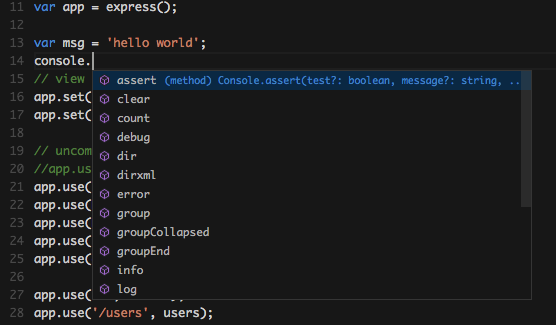
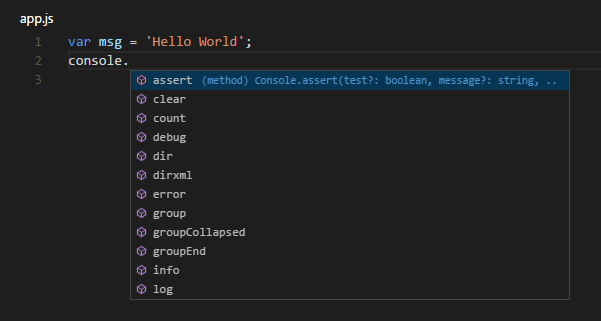
Update Node.js walkthrough

Changed region(s): [[0.0, 0.0, 0.9784, 0.9969], [0.9173, 0.9034, 0.9478, 0.9346], [0.0, 0.5607, 0.0306, 0.5919]]

diff --git a/docs/runtimes/nodejs.md b/docs/runtimes/nodejs.md
@@ -12,25 +12,106 @@ MetaDescription: Visual Studio Code has great support for writing and debugging 
 
 [Node.js](https://nodejs.org/) is a platform for building fast and scalable server applications using JavaScript. Node.js is the runtime and [NPM](https://www.npmjs.com/) is the Package Manager for Node.js modules.
 
-To get started, [install Node.js for your platform](https://nodejs.org/en/download/). The Node Package Manager is included in the Node.js distribution. You'll need to open a new terminal (command prompt) for `npm` to be on your PATH.
+VS Code has support for the JavaScript and TypeScript languages out-of-the-box as well as Node.js debugging. However, to run a Node.js application, you will need to install the Node.js runtime on your machine.
 
-> **Tip!** You can download both the TypeScript and JavaScript versions of the sample application created in this walkthrough from the [vscode-samples](https://github.com/Microsoft/vscode-samples/archive/master.zip) repository.
+To get started in this walkthrough, [install Node.js for your platform](https://nodejs.org/en/download/). The Node Package Manager is included in the Node.js distribution. You'll need to open a new terminal (command prompt) for `npm` to be on your PATH.
+
+>**Tip!** To test that you've got Node.js correctly installed on your computer, type `node --version` from a terminal and you should see the installed version.
+
+## Hello World
+
+Let's get started by creating the simplest Node.js application, "Hello World".
+
+Create an empty folder called "Hello", navigate into and open VS Code:
+
+```bash
+mkdir Hello
+cd Hello
+code .
+```
+
+>**Tip:** You can open files or folders directly from the command line.  The period '.' refers to the current folder, therefore VS Code will start and open the `Hello` folder.
+
+From the File Explorer tool bar, press the New File button:
+
+![File Explorer New File](images/nodejs/toolbar-new-file.png)
+
+and name the file `app.js`:
+
+![File Explorer app.js](images/nodejs/app-js-file-created.png)
+
+By using the `.js` file extension, VS Code interprets this file as JavaScript and will evaluate the contents with the JavaScript language service.
+
+Create a simple string variable in `app.js` and send the contents of the string to the console:
+
+```javascript
+var msg = 'hello world';
+console.log(msg);
+```
+
+Note that when you typed `console.` IntelliSense on the `console` object was automatically presented to you. When editing JavaScript files, VS Code will automatically provide you with IntelliSense for the DOM.
+
+![console IntelliSense](images/nodejs/consoleintellisense.png)
+
+Also notice that VS Code knows that `msg` is a string based on the initialization to `'hello world'`.  If you type `msg.` you'll see IntelliSense showing all of the string functions available on `msg`.
+
+![string IntelliSense](images/nodejs/stringintellisense.png)
+
+After experimenting with IntelliSense, revert any extra changes from the source code example above and save the file.
+
+### Running Hello World
+
+To run `app.js` with Node.js, from a terminal type:
+
+```bash
+node app.js
+```
+
+You should see "Hello World" output to the terminal and then Node.js returns.
+
+### Debugging Hello World
+
+As mentioned in the introduction, VS Code comes with a Node.js debugger installed. Let's try debugging our simple application.
+
+To set a breakpoint in `HelloWorld.js`, put the editor cursor on the first line and press `kb(editor.debug.action.toggleBreakpoint)` or simply click in the editor left gutter.  A red circle will appear in the gutter.
+
+![app.js breakpoint set](images/nodejs/app-js-breakpoint-set.png)
+
+We now need to configure the debugger for this simple workspace.  Select the Debug View in the Side Bar:
+
+![Debug icon](images/nodejs/debugicon.png)
+
+Click on the Configure gear icon at the top of the Debug view to create a default `launch.json` configuration file and select **Node.js** as the Debug Environment. This configuration file lets you specify how to start the application, what arguments to pass in, the working directory, and more.  The new `launch.json` file is created in a VS Code specific `.vscode` folder in root of your workspace.
+
+![hello world launch json](images/nodejs/hello-world-launch-json.png)
+
+With the default Node.js **Launch** configuration created, you can now click Debug tool bar green arrow or press `kb(workbench.action.debug.start)` to launch and debug "Hello World". Your breakpoint will be hit and you can view and step through the simple application.  Notice that VS Code displays an orange Status Bar to indicate it is in Debug mode and the DEBUG CONSOLE is displayed.
+
+![hello world debugging](images/nodejs/hello-world-debugging.png)
+
+Now that you've seen VS Code in action with "Hello World", the next section shows using VS Code with a full-stack Node.js web app.
 
 ## Express
 
-[Express](http://expressjs.com/) is a very popular application framework for building and running Node.js applications. You can scaffold a new Express application using the Express Generator tool, which is typically installed globally on your computer.
+[Express](http://expressjs.com/) is a very popular application framework for building and running Node.js applications. You can scaffold (create) a new Express application using the Express Generator tool. The Express Generator is shipped as an NPM module and installed by using the NPM command line tool `npm`.
+
+>**Tip!** To test that you've got `npm` correctly installed on your computer, type `npm --version` from a terminal and you should see the installed version.
+
+Install the Express Generator by running the following from a terminal:
 
 ```bash
 npm install -g express-generator
 ```
 
-We can now scaffold a new Express application called `myExpressApp`.
+The `-g` switch installs the Express Generator globally on your machine so you can run it from anywhere.
+
+We can now scaffold a new Express application called `myExpressApp` by running:
 
 ```bash
 express myExpressApp
 ```
 
-This creates a new folder called `myExpressApp` with the contents of your application.  To install all of the application's dependencies, go to the new folder and execute `npm install`:
+This creates a new folder called `myExpressApp` with the contents of your application.  To install all of the application's dependencies (again shipped as NPM modules), go to the new folder and execute `npm install`:
 
 ```bash
 cd myExpressApp
@@ -59,55 +140,39 @@ Now launch VS Code:
 code .
 ```
 
->**Tip:** You can open files or folders directly from the command line.  The period '.' refers to the current folder, therefore VS Code will start and open the `myExpressApp` folder.
-
 The [Node.js](https://nodejs.org/api/) and [Express](http://expressjs.com/api.html) documentation does a great job explaining how to build rich applications using the platform and framework. Visual Studio Code will make you more productive developing these types of applications by providing great code editing and navigation experiences.
 
-VS Code uses the TypeScript compiler to drive its JavaScript language service, which means we can take advantage of what the compiler can infer about your code. For example, let's create a simple string variable in `app.js` and send the contents of the string to the console.
-
-```javascript
-var msg = 'hello world';
-console.log(msg);
-```
-
-Note that when you typed `console.` IntelliSense on the `console` object was automatically presented to you. When editing JavaScript files, VS Code will automatically provide you with IntelliSense for the DOM.
-
-![console IntelliSense](images/nodejs/consoleintellisense.png)
-
-Also notice that VS Code knows that `msg` is a string based on the initialization to `'hello world'`.  Type `msg.` to bring up IntelliSense and you'll see all of the string functions available on `msg`.
-
-![string IntelliSense](images/nodejs/stringintellisense.png)
+Earlier we saw the IntelliSense that the JavaScript language service can infer about your source code.  Next we will see that with a little more setup and configuration, Visual Studio Code can provide even richer information and build support.
 
 ## Adding a jsconfig.json Configuration File
 
-You can give even more hints to Visual Studio Code through a configuration file for the workspace (the root folder). Add a new file and name it `jsconfig.json` with the following contents:
+When VS Code detects that you are working on a JavaScript file, it looks to see if you have a JavaScript configuration file `jsconfig.json` in your workspace. If it doesn't find one, you will see a green lightbulb on the Status Bar prompting you to create one.
 
-```json
-{
-    "compilerOptions": {
-        "target": "es5",
-        "module": "commonjs"
-    }
-}
-```
+![jsconfig lightbulb](images/nodejs/jsconfig-lightbulb.png)
 
-The presence of this file lets VS Code know that it should treat all the files under this root as part of the same project.  The specific `compilerOptions` tells VS Code you are writing ES5 compliant code and you want to use the **CommonJS** [module system](http://www.commonjs.org/specs/modules/1.0).
+Click the green lightbulb and accept the prompt to create a `jsconfig.json` file:
 
-## Typings
+![generated jsconfig json](images/nodejs/jsconfig.png)
 
-VS Code can use TypeScript definition files (for example [`node.d.ts`](https://github.com/DefinitelyTyped/DefinitelyTyped/blob/master/node/node.d.ts)) to provide metadata to VS Code about the JavaScript based frameworks you are consuming in your application. Because TypeScript definition files are written in TypeScript, they can express the data types of parameters and functions, allowing VS Code to provide not only a rich IntelliSense experience, but also warnings when an API is being used incorrectly.
+If you do not have [Auto Save](/docs/editor/codebasics.md#saveauto-save) on, save the file by pressing `kb(workbench.action.files.save)`.
 
-[Typings](https://github.com/typings/typings), the type definition manager for TypeScript, makes it easy to search for and install TypeScript definition files into your workspace. This tool can download the requested definitions from a variety of sources, including the [DefinitelyTyped repository](https://github.com/DefinitelyTyped/DefinitelyTyped). As we did with the express generator, we will install Typings globally using NPM so that you can use the tool in any application you create.
+The presence of this file lets VS Code know that it should treat all the files under this root as part of the same project.  We'll see in the next section that this is important for extending IntelliSense by adding typings (Type Definition files) to your workspace. This configuration file also lets you specify settings such as `compilerOptions` and which folders you'd like the JavaScript language service to `exclude` (ignore). The default `jsconfig.json` file we just created tells the JavaScript language service that you are writing ES6 compliant code and you want to ignore dependency and temporary content folders.
+
+## IntelliSense and Typings
+
+VS Code can use TypeScript definition files (for example [`node.d.ts`](https://github.com/DefinitelyTyped/DefinitelyTyped/blob/master/node/node.d.ts)) to provide metadata to VS Code about the JavaScript based frameworks you are consuming in your application. Because TypeScript definition files are written in TypeScript, they can express the data types of parameters and functions, allowing VS Code to provide a rich IntelliSense experience.
+
+[Typings](https://github.com/typings/typings), the type definition manager for TypeScript, makes it easy to search for and install TypeScript definition files into your workspace. This tool can download the requested definitions from a variety of sources, including the [DefinitelyTyped repository](https://github.com/DefinitelyTyped/DefinitelyTyped). As we did with the express generator, we will install the Typings command line tool globally using NPM so that you can use the tool in any application you create.
 
 ```bash
 npm install -g typings
 ```
 
->**Tip:** Typings has a number of options for configuring where and how definition files are downloaded, from the terminal run `typings --help` for more information.
+>**Tip:** Typings has a number of options for configuring where and how definition files are downloaded. From the terminal, run `typings --help` for more information.
 
 Go back to the file `app.js` and notice that if you hover over the Node.js global object `__dirname`, VS Code does not know the type and displays `any`.
 
-Now, using the Typings command line, pull down the Node and Express definition files.
+Now, using the Typings command line, pull down the Node.js and Express type definition files.
 
 ```bash
 typings install node --ambient
@@ -126,17 +191,13 @@ You can also write code that references modules in other files. For example, in 
 
 ![Express.Router IntelliSense](images/nodejs/moduleintellisense.png)
 
-## Debugging your Node Application
+## Debugging your Express Application
 
-In order to run and debug your Node.js application from within VS Code, you need to configure how the application will be started. To do this, click on the Debug icon in the View Bar on the left of Visual Studio Code.
-
-![Debug icon](images/nodejs/debugicon.png)
-
-Click on the Configure gear icon at the top of the Debug view to create a default `launch.json` file and select "Node.js" as the Debug Environment. This configuration file lets you specify how to start the application, what arguments to pass in, the working directory, and more. When the file is first created, VS Code will look in `package.json` for a `start` script and will use that value as the `program` (which in this case is `${workspaceRoot}/bin/www`) for the `Launch` configuration. A second `Attach` configuration is also created to show you how to attach to a running Node application.
+Just as we did earlier for "Hello World", you will need to create a debugger configuration file `launch.json` for your Express application. Click on the Debug icon in the View Bar and then the Configure gear icon at the top of the Debug view to create a default `launch.json` file.  Again select the **Node.js** environment.  When the file is first created, VS Code will look in `package.json` for a `start` script and will use that value as the `program` (which in this case is `${workspaceRoot}/bin/www`) for the **Launch** configuration. A second **Attach** configuration is also created to show you how to attach to a running Node.js application.
 
 ![launch.json configuration file](images/nodejs/launchjson.png)
 
-Take the defaults for everything else. If you do not have [Auto Save](/docs/editor/codebasics.md#saveauto-save) on, save the file by pressing `kb(workbench.action.files.save)`, and make sure `Launch` is selected in the configuration dropdown at the top of the Debug view. Open `app.js` and set a breakpoint on the line of code we wrote earlier `var msg = 'hello world';` by clicking in the gutter to the left of the line number. Press `kb(workbench.action.debug.start)` to start debugging the application. VS Code will start the server in a new terminal and hit the breakpoint we set. From there you can inspect variables, create watches, and step through your code.
+Save the new file and make sure **Launch** is selected in the configuration dropdown at the top of the Debug view. Open `app.js` and set a breakpoint near the top of the file where the Express app object is created by clicking in the gutter to the left of the line number. Press `kb(workbench.action.debug.start)` to start debugging the application. VS Code will start the server in a new terminal and hit the breakpoint we set. From there you can inspect variables, create watches, and step through your code.
 
 ![Debug session](images/nodejs/debugsession.png)
 
@@ -156,13 +217,13 @@ The community is continually developing more and more valuable extensions for No
 
 There is much more to explore with Visual Studio Code, please try the following topics:
 
+* [Settings](/docs/customization/userandworkspace.md) - Learn how to customize VS Code for how you like to work.
 * [Debugging](/docs/editor/debugging.md) - This is where VS Code really shines
-* [Editing Evolved](/docs/editor/editingevolved.md) - Lint, IntelliSense, Lightbulbs, Peek and Goto Definition and more
-* [ASP.NET Core](/docs/runtimes/ASPnet5.md) - End to end sample showing off our ASP.NET Core and .NET Core support with a sample app
+* [Editing Evolved](/docs/editor/editingevolved.md) - Lint, IntelliSense, Lightbulbs, Peek and Go to Definition and more
 * [Tasks](/docs/editor/tasks.md) - Running tasks with Gulp, Grunt and Jake.  Showing Errors and Warnings
 
 ## Common Questions
 
 **Q: IntelliSense isn't working for Node.js and Express after I install their typings?**
 
-**A:** Be sure you have a `jsconfig.json` file in the workspace root folder so that VS Code treats all files and folders as belonging to the same project context. Without a `jsconfig.json`, VS Code considers JavaScript and TypeScript files in isolation and won't associate your source code types with the typings files type definitions.
+**A:** Be sure you have a `jsconfig.json` file in the workspace root folder so that VS Code treats all files and folders as belonging to the same project context. Without a `jsconfig.json`, VS Code considers JavaScript and TypeScript files in isolation and won't associate your source code types with the typings type definitions files.
